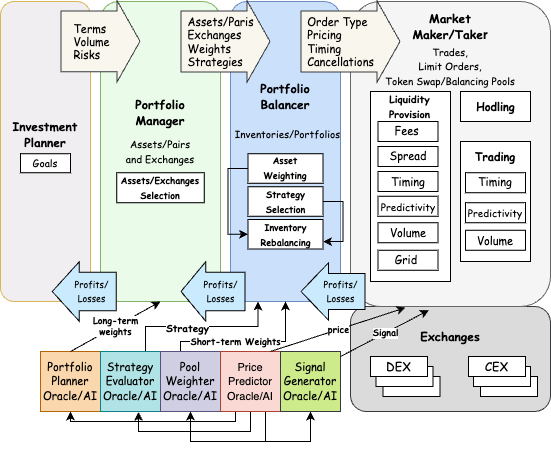
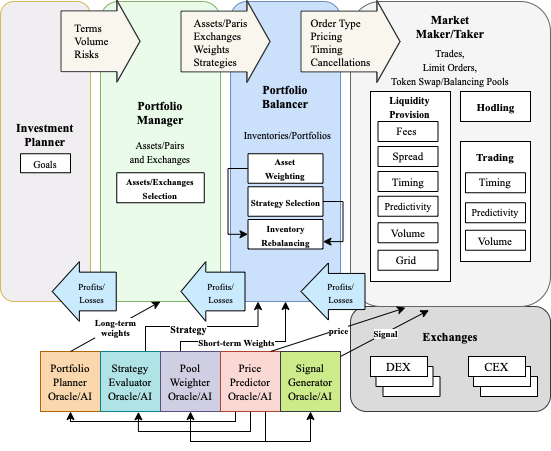
Pos Updated Latest Changes (#47)
* new branch

* file

* file

* ETH2&Hedera consensus diagram

* pos blog

* fix

* fix

* fix

* ref fix

* Minor Fixes

* Spelling Check

* new branch

* file

* file

* ETH2&Hedera consensus diagram

* pos blog

* fix

* fix

* fix

* Minor Fixes

* Spelling Check

* New Website Format

* Referneces Fix

* Changes Latest

---------

diff --git a/blogs/POS/pos.md b/blogs/POS/pos.md
@@ -1,137 +1,90 @@
+# A Comparative Analysis of Different Proof of Stake Consensus Mechanisms
 
-# Staking and Reward Mechanisms in PoS Protocols
-
-<ins>**Innovation & Ideation**</ins>
+<!-- ![Academic Insight](images/AI.svg) -->
+<ins>**Academic insight**</ins>
 
 ```{admonition} Key Insights
 :class: tip
-- There are various applications of PoS-based System evovling using diverse rewar mechanism.
-- Reward mechanism is a critical aspect, affecting both incentive structures and system decentralization.
-- There is a trade-off: the more open the staking process is, the more inequality the reward distribution tends to be.
-- The way of how PoS is implemented greatly matters its equality and decentralisation.
-- We need to critically think about variouscPoS protocols. Not only know the high return rate, but also realise the centralisation and risks in different systems.
+- Platt et al.'s paper underscores the high energy consumption of Proof of Work (PoW) systems like Bitcoin and highlights the relative energy efficiency of Proof of Stake (PoS) systems.
+- The energy usage of PoS blockchains is significantly influenced by the hardware used by validators, emphasizing the importance of hardware selection in these systems.
+- There are notable variations in energy consumption among different PoS systems, influenced by various factors such as system design, implementation, and the number of validator nodes
+- Hedera, a permissioned DLT system, showcased the lowest energy consumption per transaction in the study. This highlights Hedera's superior efficiency and positions it as a sustainable option in the blockchain sector.
+- The authors developed a unique model to measure energy consumption on a per transaction basis in PoS blockchains, providing a nuanced understanding of energy usage
+- The research advocates for a transition from energy-intensive PoW systems to more efficient PoS systems, suggesting that energy-saving hardware could drastically reduce energy consumption in PoS systems. 
 ```
 
 ## Introduction
 
-`````{margin} **Proof-of-Work (PoW)**
-Proof-of-Work (PoW) is a consensus algorithm where participants, termed miners, solve complex computational problems to validate and record transactions. This mechanism, while secure, is often associated with significant energy consumption due to the required computational power. Generally, the more computing power one has, the more reward one could earn.
-`````
+Platt et al. {cite}`platt2021energy` in their academic paper, "The Energy Footprint of Blockchain Consensus Mechanisms Beyond Proof-of-Work", delves into the energy implications of different blockchain consensus mechanisms, primarily Proof of Work (PoW) and Proof of Stake (PoS). The authors highlight the extreme energy consumption of PoW systems, exemplified by Bitcoin, which has attracted criticism due to its environmental impact. As an alternative, PoS mechanisms aim to be more energy-efficient. However, the paper underscores that the energy consumption of PoS blockchains also depends greatly on the type of hardware used by validators.
 
-`````{margin} **Proof-of-Stake (PoS)**
- Proof-of-Stake (PoS) is a consensus algorithm where participants, known as validators, demonstrate ownership of a certain amount of cryptocurrency to validate and create new blocks. Unlike PoW, PoS offers energy efficiency by not relying on extensive computational tasks and instead emphasizes asset collateralization for network security. Rather than relying on computational power, PoS protocols leverage the "stake" or amount of cryptocurrency a user holds.
-`````
-Blockchain's trustless foundation removes the necessity for inter-party trust, with its security and decentralization hinging on a fair consensus mechanisms while Proof-of-Work (PoW) and Proof-of-Stake (PoS) are currently the two most commonly used consensus protocols. Proof-of-Work (PoW) involves computating power competition and thus is critisized for its environmental footprint and potential inequities in mining. Conversely, Proof-of-Stake (PoS) operates on asset collateralization i.e., tokens and is getting popular due to its energy efficiency but faces risks of wealth concentration. This article summarizing Dr. Sheng-Nan Li's talk, which delves into the nuances and challenges of PoS protocols, especially focusing on staking and reward mechanisms.
+The authors make a comparative analysis of different PoS systems, shedding light on their energy consumption patterns. They argue that the energy efficiency of consensus mechanisms is a vital factor determining their effectiveness and suitability for use in distributed ledger technology (DLT) systems. Their work underscores the need for more focused research and an understanding of the energy implications of these mechanisms in the rapidly evolving world of blockchain technology. 
 
-We'll begin by dissecting the different reward mechanisms inherent to various proof-of-stake protocols. Understanding these mechanisms is foundational to grasping the incentives that drive user participation. Secondly, by measuring the decentralization of these proof-of-stake protocols, we can further understand the Reward Distribution Decentralization. Thirdly, we move to a general framework for modeling proof-of-stake protocols presnted by Dr.Li. This agent-based modeling approach allows us to evaluate decentralization from a more granular perspective. Lastly, we'll delve into a real-world application. Hedera serves as a prime example, helping elucidate the modeling framework and showcasing the practical implications of Dr. Li's findings.
+## The Energy Intensity of Blockchain Consensus Mechanisms and Bitcoin's Overwhelming Energy Footprint
 
-## Overview of PoS Reward Mechanisms
+ Proof-of-Work (PoW) systems like Bitcoin are criticised for their high energy requirements, comparable to those of industralised nations, due to their correlation with market capitalization {cite}`sedlmeir2020energy`. Proof-of-Work (PoW) is a mechanism designed to resist Sybil attacks, and it has been implemented in many of the initial cryptocurrencies {cite}`nakamoto2008bitcoin`. This raises sustainability concerns. Platt et al. {cite}`platt2021energy` demonstrate that Proof-of-Stake (PoS) systems, which prioritise validators with higher stakes in the native currency, significantly reduce energy consumption. Despite this, Bitcoin's energy use dwarfs that of all analysed PoS systems by at least two orders of magnitude, emphasising the potential of PoS as a more sustainable alternative {cite}`ismail2019review`.
 
-To discuss the properties of staking and reward distribution in PoS, Ethereum 2.0, Cardano, and Polkadot are selected as examples.
+## Variation in Energy Footprint and Consumption Patterns Among PoS Systems
 
-### Ethereum 2.0
+There are marked variations in energy consumption among PoS systems. Factors such as system design, implementation, hardware used, number of validator nodes, and system throughput contribute to this variation. Permissionless systems, in particular, display larger energy footprints, indicating that these factors significantly affect their energy efficiency. Furthermore, the hardware employed by validators substantially influences the energy consumption of PoS blockchains, with the energy usage of a validator node discovered to be independent of system throughput in the permissionless systems analysed. Especially less active permissionless systems demonstrate a higher energy demand per transaction due to lower throughput and a large number of validators {cite}`carter2021much`.
 
-Ethereum 2.0, launched on September 15, 2022, signifies a major shift in the blockchain realm by adopting the Proof of Stake consensus protocol, specifically the Casper-FFG and LMD-GHOST versions. Central to this new protocol are validators as the main actors. The attestation process involves a minimum of 128 validators who propose attestations or votes as the attesting committee, from which 16 are chosen as Aggregators. Additionally, one validator is designated as the block proposer to propose one block per slot.
+## Methodology Overview
 
-The reward with a sum_weight of 64 is structured based on various criteria as:
-- A timely vote for the correct target earns a weight of 14.
-- A timely vote for the correct source checkpoint earns a weight of 26.
-- A timely vote for the correct head block earns a weight of 14.
-- Participating in a sync committee earns a weight of 2.
-- If a validator successfully proposes a block in the appropriate slot, they are rewarded with a weight of 8. This reward is approximately 7/8 of the attesting reward.
+In their study {cite}`platt2021energy`, the authors developed a fundamental energy consumption model specific to PoS blockchains. This model primarily considered energy consumption on a per transaction basis rather than the overall system's consumption. The authors assumed that the validating nodes would run on comparable server hardware types, regardless of network load. Thus, the overall energy requirement of a protocol was attributed exclusively to the number and the specific hardware configuration of the validator nodes. Three different hardware configurations were considered to cover the potential hardware variation and expected hardware usage: a single-board computer, a rack-mount server for midsize and large enterprises, and a high-performance server. This holistic approach allowed for a nuanced analysis of energy consumption across PoS blockchains.
 
- Additionally, a key concept of the consensus and staking aspect is the validator effective balance, which is capped at 32 ETH and triggers ejection when it reaches 16 ETH. It takes 12 seconds for a slot and around 6.5 minutes for a Epoch (32 slots). Reward payout happens after two epochs following the finalization of a block. For the reward distribution, we have:
-
-\[
-    \text{base\_reward} = \frac{\text{Base\_Reward\_Factor (64)}}{\text{Base\_Reward\_Per\_Epoch(4)} \times \sqrt{\sum{\text{active\_balance}}}} \times \text{effective\_balance}
-\]
-
-A timely attester:
-
-\[ \text{Inclusion speed reward} = \text{base\_reward} \times \frac{1}{\text{Inclusion\_distance}} \times \frac{7}{8} \]
-
- On the other hand, penalties are in place for cases such as not making timely voting on correct head, source or target but there is no penalty if a proposer misses a slot. The more severe panlty is slashing for proposers who propose two different blocks for the same slot and for attesters who makes 'surround voting' or 'doublel voting', resulting in a 36-day removal and the burning of a fraction of the staked ether.
-
-### Cardano
-Cardano, with its Shelley update introduced on July 29, 2020, employs the Ouroboros Praos consensus protocol (PoS). Central to its system are stake pools consisting of stake pool operators (SPOs), who act as slot leaders responsible for producing blocks. Additionally, there are delegators who can allocate their stakes to these pools. Cardano's system divides time into epochs, with each epoch containing 432,000 slots (1 second) that equate to five days. Rewards are dispensed at the end of each epoch. Cardano introduces a unique staking system with its "Pledging" or self-staking mechanism, allowing stake pool operators to commit their own ADA cryptocurrency, influencing the rewards they can potentially earn. To ensure the network remains decentralized and no single pool gains excessive control, Cardano has implemented a "Saturation Parameter." This parameter sets an optimal size for each pool, beyond which rewards begin to diminish, encouraging a balanced distribution of stakes across various pools. Additionally, the total rewards, sourced from a maximum supply, are influenced by factors like the pool's performance, and they are distributed proportionally based on produced blocks and the pool's total active stake. After deducting declared fees for pool operation, the remaining rewards are shared proportionally among all delegators, including the pool operator.
-
-### Polkadot
-Launched in May 2020, Polkadot operates using a Nominated Proof of Stake (NPoS) consensus mechanism. In this system, nominators can select up to 16 validator candidates, with the active validator set capped at 297. These validators, once elected, are responsible for producing blocks in the relay chain and also accept proofs from collators, who collect transaction data and proofs from the parachains. Time is organized into eras, each lasting 24 hours, during which validators produce blocks. Reward payout happens at the end of every era, with the total rewards following an inflationary model, estimated at approximately 10% yearly by total stake. Validators earn era points for their contributions, which influence their rewards but are separate from their stakes. Notably, the rewards are generally equal among all validators but can vary based on the era points they've accumulated. Validators can also claim a commission fee, while nominators share the rewards among the top 256 nominators, proportionally to their stake. However, there are slashing mechanisms in place including penalties of a fixed percentage of the stake of validator slot range from 0.1% to 100% and kicking out range from removing from the list of candiates in the next election to removing from all the nominators' lists of trusted candidates, depending on the severity of the violation.
-
-Overall, PoS protocols of Ethereum 2.0, Cardano, and Ethereum 2.0 differ in the terminologies, the main actors and their roles, the incentive and reward distribution, and other technical details. This leads to the next question that whether the rewards are fairly distributed to the validators in real PoS-Platforms.
-
-| Coin                  | Launch  | Roles                        | Reward period    | Slashing | Key Notes                              |
-|-----------------------|---------|------------------------------|------------------|----------|----------------------------------------|
-| Ethereum 2.0 (PoS)    | Sep-22  | Proposer/ Attesting committee| Epoch (~6.5mins) | YES      | capped at 32 ETH                       |
-| Cardano (PoS)         | Jul-20  | Pool operator/ delegator     | Epoch (5 days)   | NO       | Pledge factor/ saturation              |
-| Polkadot (NPoS)       | May-20  | Validator/ Nominator/ Collator| Era (24 hours)   | YES      | Era points/ equally distribute         |
-
-## Decentralization of Reward Distribution
-
-To evaluate the decentralization of reward distribution, particularly the distribution of wealth among participants, two primary metrics are employed:
-
-### Gini index
-
-The Gini index is the most frequently used inequality index of income or wealth distribution among a nation's population. It can theoretically range from 0 (complete equality) to 1 (complete inequality, where one participant possesses everything while others have nothing). In PoW-based systems, the Gini index measures the inequality of mining revenue distribution among miners. The Gini index is applied to the stakes and rewards of validators as:
-
-\[
-G = \frac{\sum_{i=1}^{N} \sum_{j=1}^{N} |x_i - x_j|}{2n \sum_{i=1}^{N} x_i}
-\]
-
-where \(x_i\) is the stake or reward of a validator \(i\), and there are \(N\) validators.
-
-### Nakamoto Coefficient
-
-The Nakamoto Coefficient quantifies decentralization by specifying the number of participants needed to compromise the system. In this setting, it is based on the stakes of validators. It specifies the minimum share of participants required to hold more than 50% of the staking power. A higher Nakamoto Coefficient indicates better decentralization of the protocol. It's expressed as:
-
-\[
-N_c = \frac{1}{n}\min \left( k \in [1,2,...,K] : S^{-1} \sum_{i=1}^{k} s_i > 0.5 \right)
-\]
-
-where \(s_i\) is the stake of validator \(i\) and there are \(N\) validators.
-
-Diving deeper into the landscape, Polkadot and Cardano present contrasting approaches. Despite its limited set of validators, Polkadot has seen substantial growth in stake pools. On the other hand, with an unlimited validator set, Cardano recently noted that only around 40% of its pools receive rewards in each epoch. When analyzing the distribution patterns, Polkadot emerges as a leading player in both stake and reward distribution. Its design, which emphasizes equal reward distribution, has resulted in the lowest Gini Index and the most substantial Nakamoto Coefficient. In contrast, Cardano, despite its open validator set, exhibits a relatively high level of inequality.
-
-In essence, how PoS is implemented plays a crucial role in determining both its equality and decentralization.
-
-## General Framework of PoS Modeling
-
-To clarify components that characterize the staking and reward of PoS protocols and develop an evaluation framework for better protocol design, an extensible framework of modeling (D)PoSs is introduced by Dr. Li. The framework process is split into three parts:
+```{figure} images/ETH2.0.png
+---
+width: 801px
+height: 611px
+name: eth_diagram
+---
+Ethereum 2.0's Consensus Mechanism.
+```
 
 
-**1. Planning the Total Reward Before the Reward Period:**
-- **Determining Total Reward:** At the outset, it's imperative to finalize the aggregate reward for each period. This will dictate the incentive structure and, in turn, the behaviors of participants.
-  - **Inflation Model Considerations:** By determining the total reward, one can conceptualize the inflation model. This might be pertinent to the economic sustainability of the protocol.
-  - **Supply Dynamics:** Different systems have varied supply constraints—some might have a fixed supply, while others might allow for unlimited total supply. Depending on this, the reward structure might differ.
-  - **Yearly Return Rate:** Some systems might want to establish a fixed annual percentage yield (APY), ensuring consistent returns over time.
+## Examination of PoS DLT Systems
 
-**2. Designing the Staking Behaviors and the Reward Distribution During the Reward Period:**
-- **Validator and Nominator Interplay:** The behavior and interactions between validators and nominators are foundational. One needs to consider which validators nominators would opt for and which behaviors would maximize rewards.
-  - **Behavior Incentives:** The protocol should incentivize behaviors that align with the system's goals, ensuring network security and efficiency.
-  - **Reward Distribution Dynamics:** Decision-making around how rewards are split among validators is pivotal. Whether rewards should be equally distributed or be proportional to the total stake is a matter for consideration.
+The study {cite}`platt2021energy` examined several high market capitalization DLT systems employing a PoS consensus algorithm, including Ethereum 2.0 with 183,753 validators, Algorand with 1,126 validators, Cardano with 2,958 validators, Polkadot with 297 validators, Tezos with 399 validators, and Hedera with 21 validators. These systems, despite their shared usage of PoS, vary in numerous aspects, such as minimum thresholds for validation and delegation, the need to lock-up stakes, and rewards for validators. These findings provide a comprehensive view of the energy consumption landscape on PoS-based blockchains.
 
-**3. Measurement After Prolonged Operation:**
-- **Evaluating Protocol Performance:** After the system has been operational for a significant duration, it's crucial to assess its performance.
-  - **Gini Index, Nike Model, and HHI Index:** These metrics will aid in gauging whether rewards have been disseminated equitably or fairly within the system. They provide insights into the distribution dynamics and potential disparities in reward allocation.
+- **Bitcoin:** The energy consumption of Bitcoin, which uses a Proof-of-Work (PoW) consensus mechanism, exceeds the energy consumption of all Proof-of-Stake (PoS)-based systems analysed by at least two orders of magnitude.
 
-## Use-case: Staking Model in Hedera
+- **Ethereum 2.0:** Ethereum 2.0, which is transitioning to a PoS consensus mechanism, is expected to have significantly lower energy consumption than Bitcoin. However, the exact energy consumption varies depending on the throughput of the system.
 
-Hedera Hashgraph, recognized for its unique hashgraph consensus algorithm, presents an intriguing case study for staking models. This consensus mechanism operates based on the principles of a Directed Acyclic Graph (DAG). Distinct from traditional blockchain systems, the hashgraph methodology propels transaction processing at speeds that significantly outpace conventional proof-of-work blockchains.
+- **Algorand:** Algorand, a PoS-based permissionless system, has lower energy consumption than Bitcoin and Ethereum 2.0. The energy consumption per transaction is relatively low due to its high throughput and small number of validators {cite}`gilad2017algorand`.
 
-A negative value of its Degree Assortativity for weekly transaction networks suggests a disassortative nature, indicating that a significant portion of the participants likely transact through a select few dominant intermediaries. When examining wealth distribution within the network, it is observed that early users, those who joined during the initial month or year, tend to hold a substantial amount of tokens. However, a shift towards a more equitable distribution is evident post mid-2022.
+- **Cardano:** Cardano, another PoS-based system, also has lower energy consumption than Bitcoin. However, it consumes more energy than Algorand due to its lower throughput and higher number of validators.
 
-The dynamics of account growth, the rate of Daily Active Accounts (DAA), and the volume of daily transaction fees are used in empirical data analytics.
+- **Polkadot and Tezos:** These PoS-based systems have lower energy consumption than Bitcoin and Ethereum 2.0. However, their energy consumption is higher than that of Algorand and lower than that of Cardano.
 
-Firstly, The upward trajectory in daily transaction fees was captured and predicted using a log-log function. This critical metric played a pivotal role in strategizing future reward planning. Operating under the assumption that rewards would be exclusively sourced from transaction fees, devoid of inflation, the annual total reward was organized in varied trends, such as increasing, steady, or decreasing.
+- **Hedera:** Hedera, a permissioned system, has the lowest energy consumption per transaction among the systems analysed. This is due to its high throughput and small number of validators. Transactions don't aggregate into blocks. Instead, they disseminate through a "gossip about gossip" protocol, where any new information acquired by a node is propagated exponentially quickly throughout the network {cite}`hedera2021gossip`.
 
-Secondly, in terms of modeling the staking behaviors such as staking selection, stakers, in their decision-making, rely heavily on time-weighted values of a validator's historical performance. This takes into account factors like previous participation levels and reward rates. Delving into saturation dynamics, it was noted that the historical reward rate undergoes dilution when incoming stakes breach a set maximum cap, and drops to zero when they fall beneath a minimum threshold. Validator performance and staker preferences were also assessed. Two memory functions, which attribute weight to a node's engagement level and reward rate for each reward period, were combined to derive a comprehensive score for each node.
+```{figure} images/Hedera.png
+---
+width: 541px
+height: 492px
+name: hedera_diagram
+---
+Hedera's Consensus Mechanism.
+```
 
-Thirdly, the daily total reward is distributed among nodes and stakers. While each node's daily reward is based on the node's latest participation level compared to the threshold and the share of node's receiving stakes, each staker's daily reward is based on the participation level of the node that the staker selected and the share of stake among the staker's selected node's total receiving staking.
+## Results and Analysis Summary
 
-Finally, the evaluation of decentralization using the Gini index suggests rewards are more equitably distributed among validators (nodes) than stakers. Moreover, the Nakamoto Coefficient indicates that a voting-weighted system is more decentralized than the "one stake one vote" approach.
+The study {cite}`platt2021energy` conducted an in-depth analysis of various Distributed Ledger Technology (DLT) systems, focusing on their consensus mechanisms, number of validators, throughput, and energy consumption. The findings highlighted the necessity of transitioning from energy-intensive Proof of Work (PoW) systems, such as Bitcoin, to more energy-efficient Proof of Stake (PoS) systems.
 
+Bitcoin's PoW system was found to be at least three orders of magnitude higher in energy consumption than the most energy-consuming PoS system. Most PoS systems were found to consume less energy than the VisaNet payment network. 
 
+Significant differences in energy consumption were observed among the PoS systems studied. These differences were ascribed to the number of validators, the throughput of the systems, and the type of hardware utilised by the validators. For instance, Hedera, a permissioned system with 21 validators, showed the least energy consumption per transaction. Conversely, systems with more validators and lower throughput had higher energy demands.
+
+The study identified the assumption that the number of validators is an affine function of throughput as a limitation. Future studies were recommended to consider the network-wide energy consumption beyond validator nodes for a more comprehensive understanding of the energy usage in DLT systems.
 
 ## Conclusion
 
-Modeling (D)PoSs offers insights into the long-term implications of protocol adjustments and enhances our understanding of the behavioral tendencies of validators or stakers. It also highlights their influence on system decentralization. As we delve deeper into various PoS protocols, it's crucial to recognize not just the attractive return rates but also the centralization and potential risks inherent in different systems.
+Platt et al. {cite}`platt2021energy` emphasised the urgent need for transitioning from energy-intensive PoW systems to more efficient PoS systems. Their analysis reveals that by opting for energy-saving hardware, PoS systems could drastically lower their energy consumption, potentially outperforming even traditional central payment systems in terms of energy usage. This research injects optimism into the discourse around blockchain technology's role in addressing climate change. Moreover, it serves as an important call-to-action for blockchain developers and practitioners, urging them to prioritise energy efficiency in their system designs. Utilising benchmarking frameworks to quantify real energy usage could be especially beneficial for permissioned systems that strive for high performance {cite}`sedlmeir2021dlps`. In the future, more nuanced models and factors influencing validator count, beyond network throughput, could be considered for a more comprehensive understanding. 
+
+<div style="text-align: right;font-weight: bold;">Ali Kathia</div>
+<div style="text-align: right;font-style: italic;">July 2023</div>
+
+## References
+
+```{bibliography}
+:filter: docname in docnames
+```

diff --git a/blogs/AIB/aib.md b/blogs/AIB/aib.md
@@ -30,7 +30,7 @@ Most commonly, research and applications have explored the potential of using bl
 
 Raheman et al. {cite}`9686345` designed an infrastructure of AI agents or "Oracles" for portfolio management, liquidity provision, and price prediction in various decentralized financial markets. As shown in Figure 1, these Oracles will increase investment value and returns by offering liquidity. They serve end business applications, smart contracts, and other agents. A key aspect is the distinction between an "inventory/portfolio" that comprises multiple assets and a "DEX swap pool" or "DEX balancing pool," which is one of several portfolio maintenance strategies. Therefore, a single "inventory/portfolio" may contain multiple "DEX swap pools" or "DEX balancing pools" with various strategies.
 
-```{figure} images/hashgraph.png
+```{figure} images/defi&ai.png
 ---
 width: 450px
 height: 551px

diff --git a/blogs/STRUCTURE/academic_3.md b/blogs/STRUCTURE/academic_3.md
@@ -1,0 +1,17 @@
+# Academic Insights
+
+:::::{container}
+::::{grid} 1 2 2 2
+:gutter: 2
+
+:::{grid-item-card} A Comparative Analysis of Different Proof of Stake Consensus Mechanisms
+:margin: 3 0 0 0
+:link: https://dlt-science.github.io/science-notes/POS/pos.html
+:link-type: url
+:text-align: center
+:shadow: md
+
+<img src= "https://s.yimg.com/ny/api/res/1.2/SRedXv3Y74r0xYFrT5SHuQ--/YXBwaWQ9aGlnaGxhbmRlcjt3PTY3NjtoPTQ1MA--/https://media.zenfs.com/en-US/homerun/coin_rivet_596/af914adcdd377a5478c675bb9050c0de"  width="350px" height="200px">
+
+
+:::
